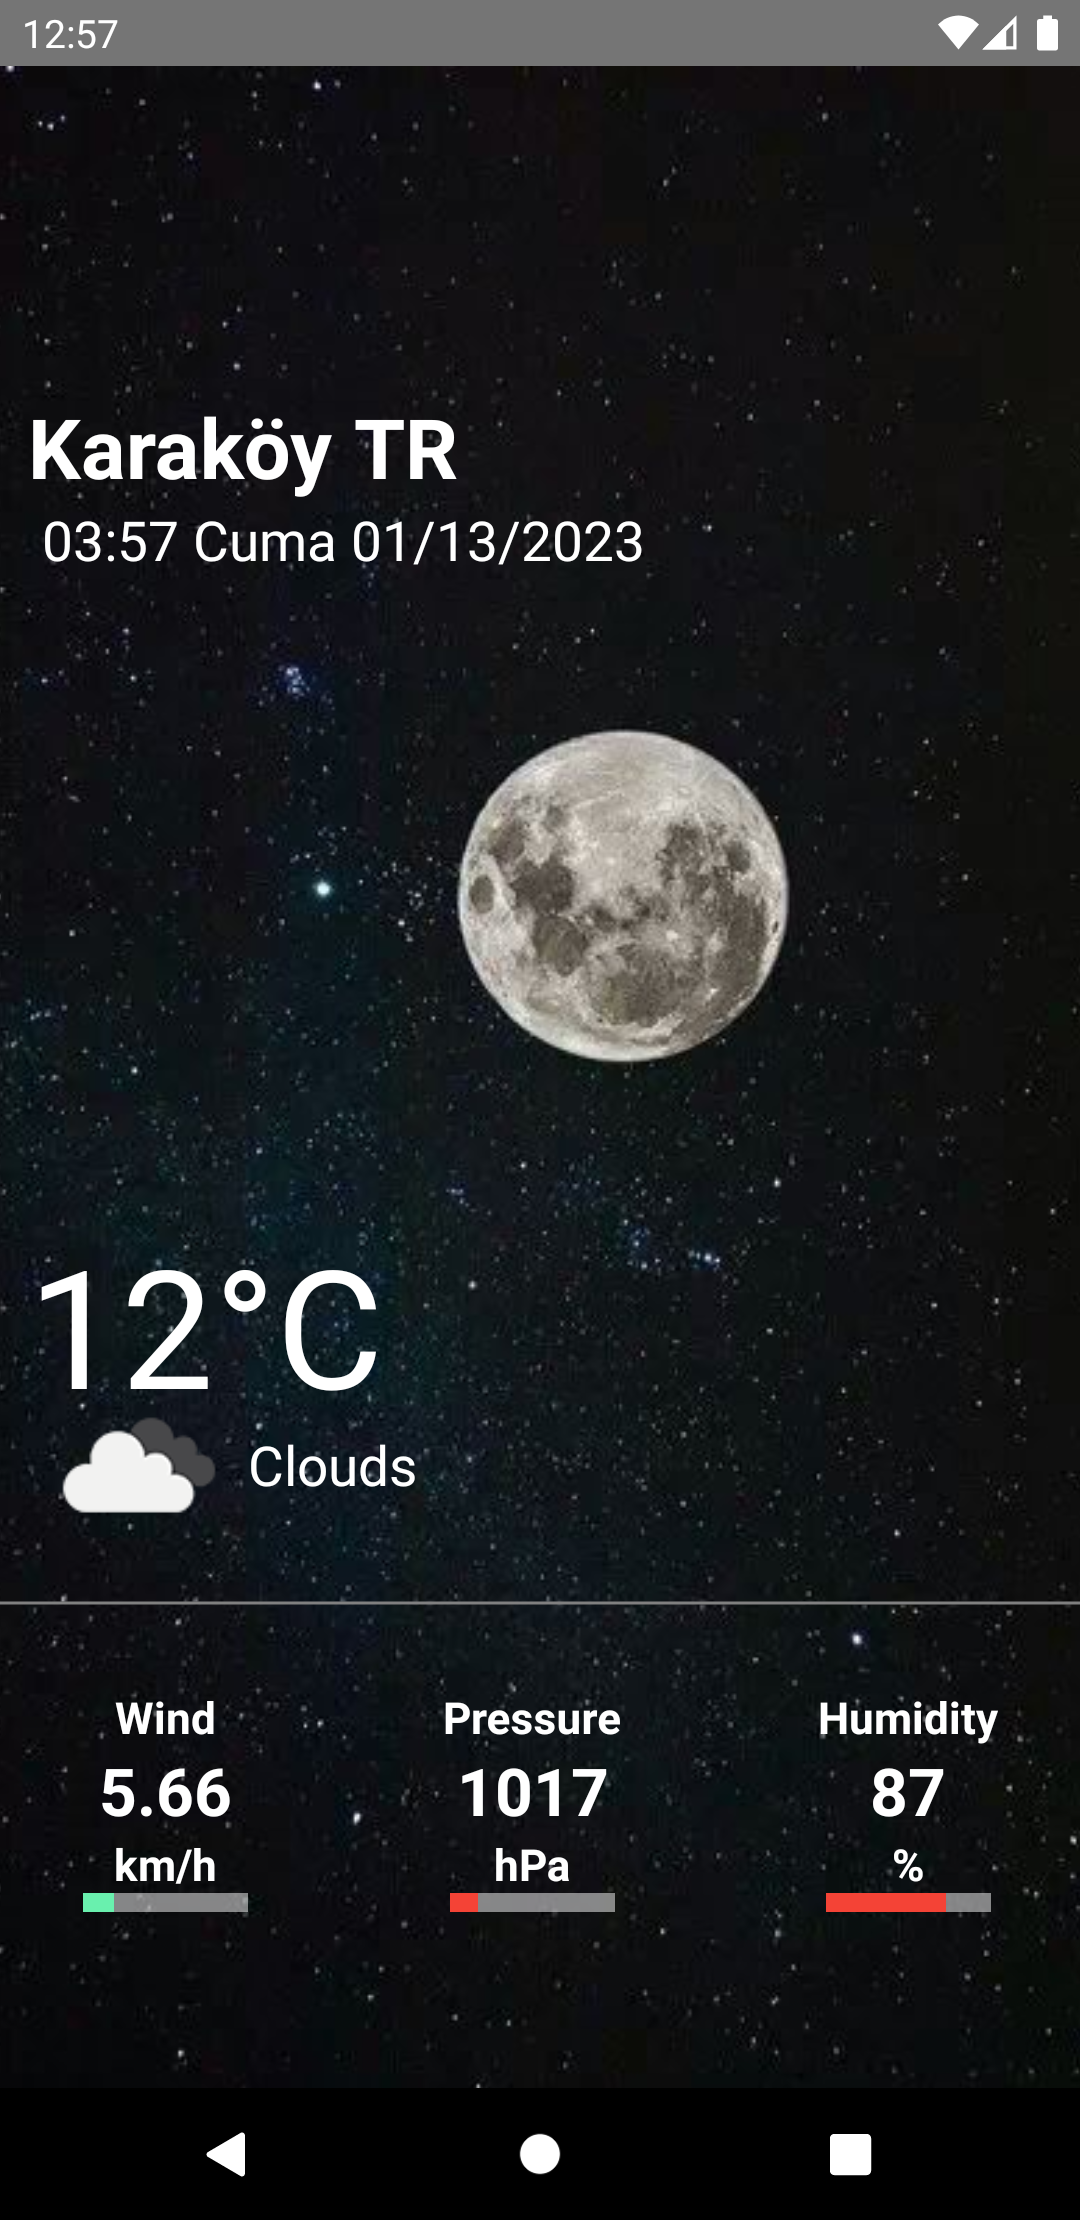
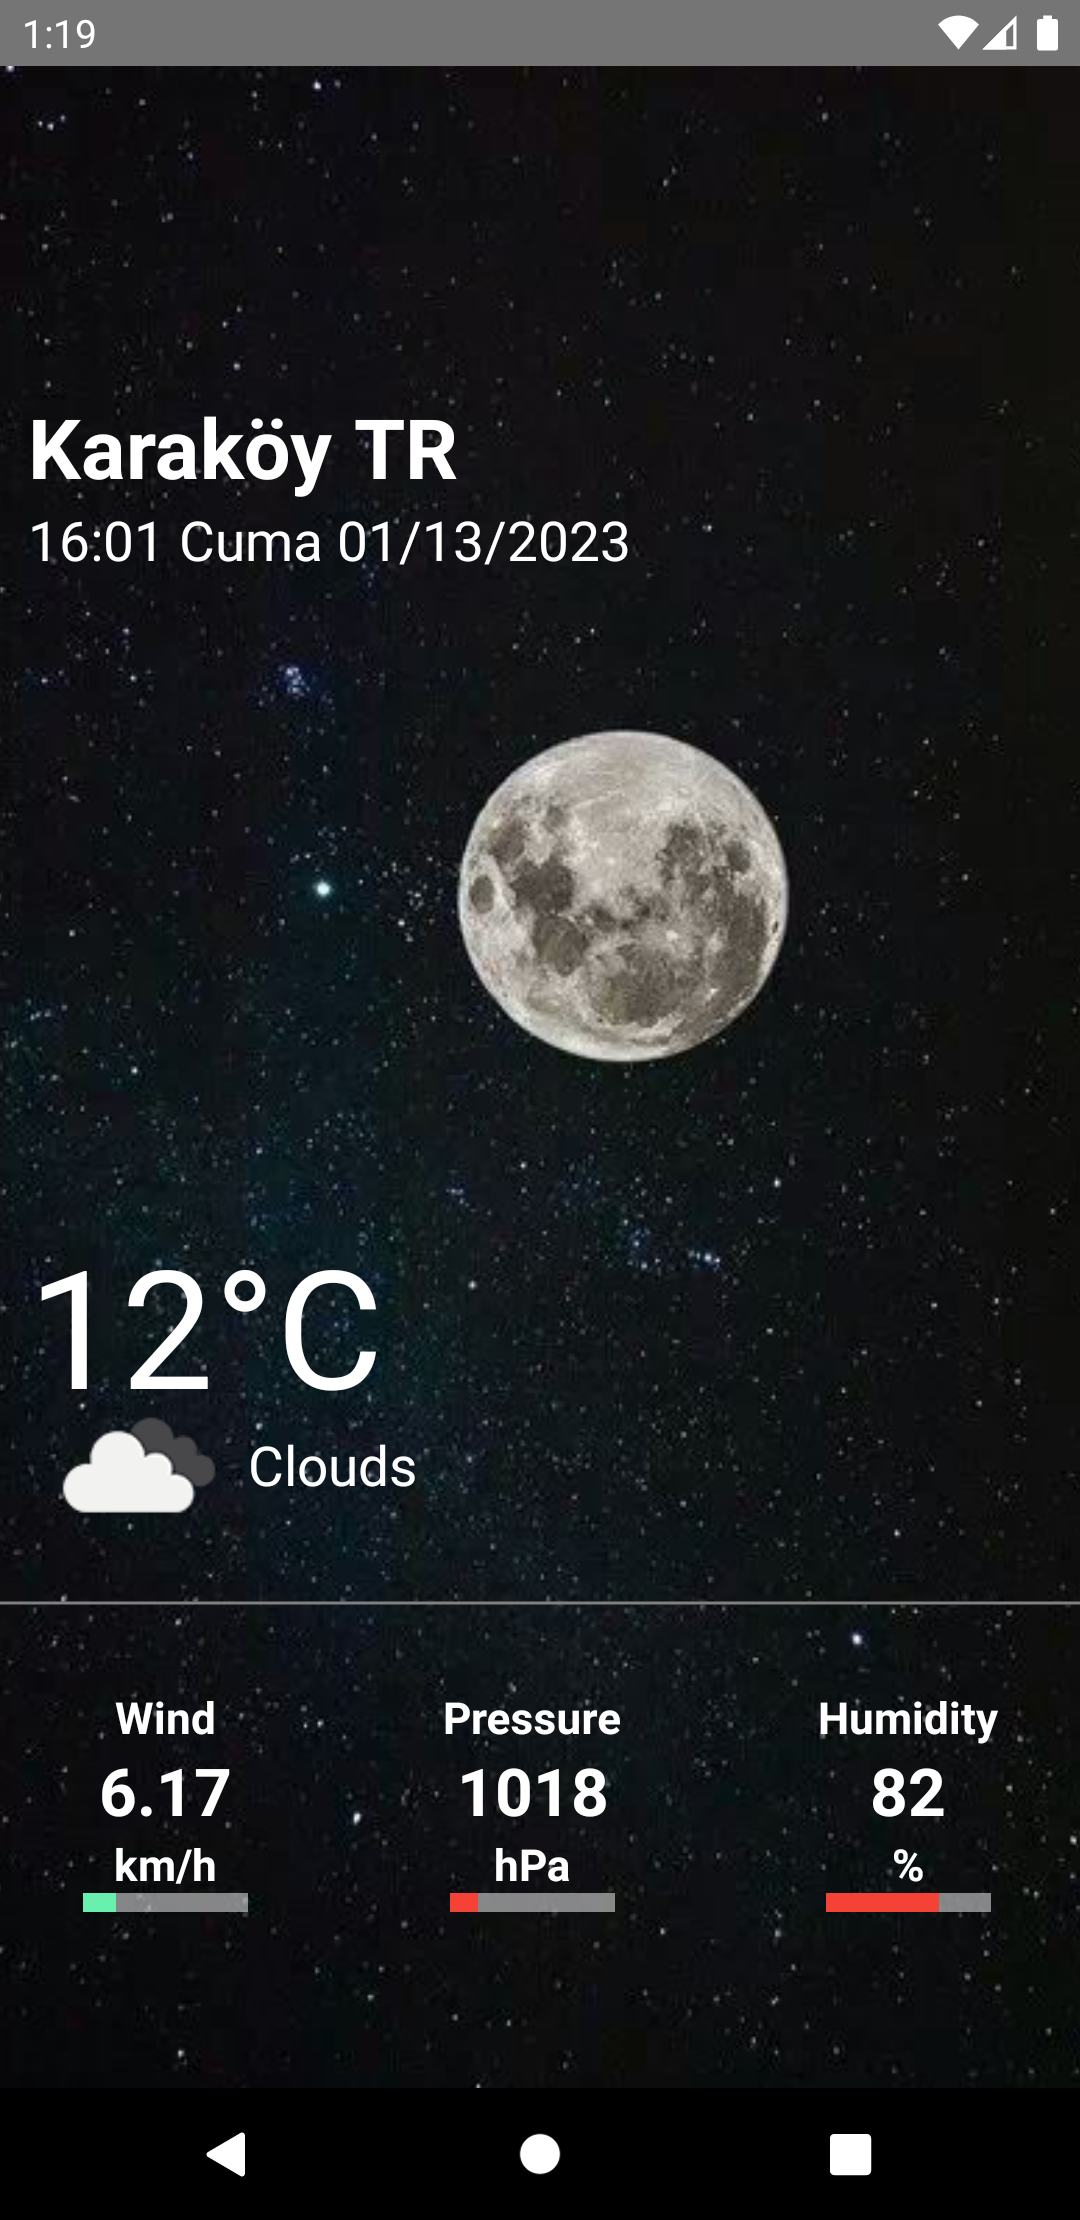
24 saat format updated

diff --git a/weatherapp/src/App.js b/weatherapp/src/App.js
@@ -11,7 +11,7 @@ const App = () => {
   const [refresh, setRefresh] = useState(false);
   const [lat, setLat] = useState(0);
   const [lon, setLon] = useState(0);
-  const formattedDate = format(new Date(), " hh:mm eeee MM/dd/yyyy", { locale: tr })
+  const formattedDate = format(new Date(), "HH:MM eeee MM/dd/yyyy", { locale: tr })
   const { data, error, loading } = useFetch(`${Config.API_URL}lat=${lat}&lon=${lon}&appid=${Config.API_KEY}&lang=tr`);
 
   const pullRefresh = () => {

diff --git a/weatherapp/README.md b/weatherapp/README.md
@@ -1,6 +1,6 @@
 ### Weather app
 
-<img src="./assets/weather1.png" width="250"> <img src="./assets/weather2.png" width="250"> <img src="./assets/weather3.png" width="250"> <img src="./assets/weather4.png" width="250">
+<img src="./assets/weather1.png" width="230"> <img src="./assets/weather2.png" width="230"> <img src="./assets/weather3.png" width="230"> <img src="./assets/weather4.png" width="230">
 
 ## Tools & Resources
 
